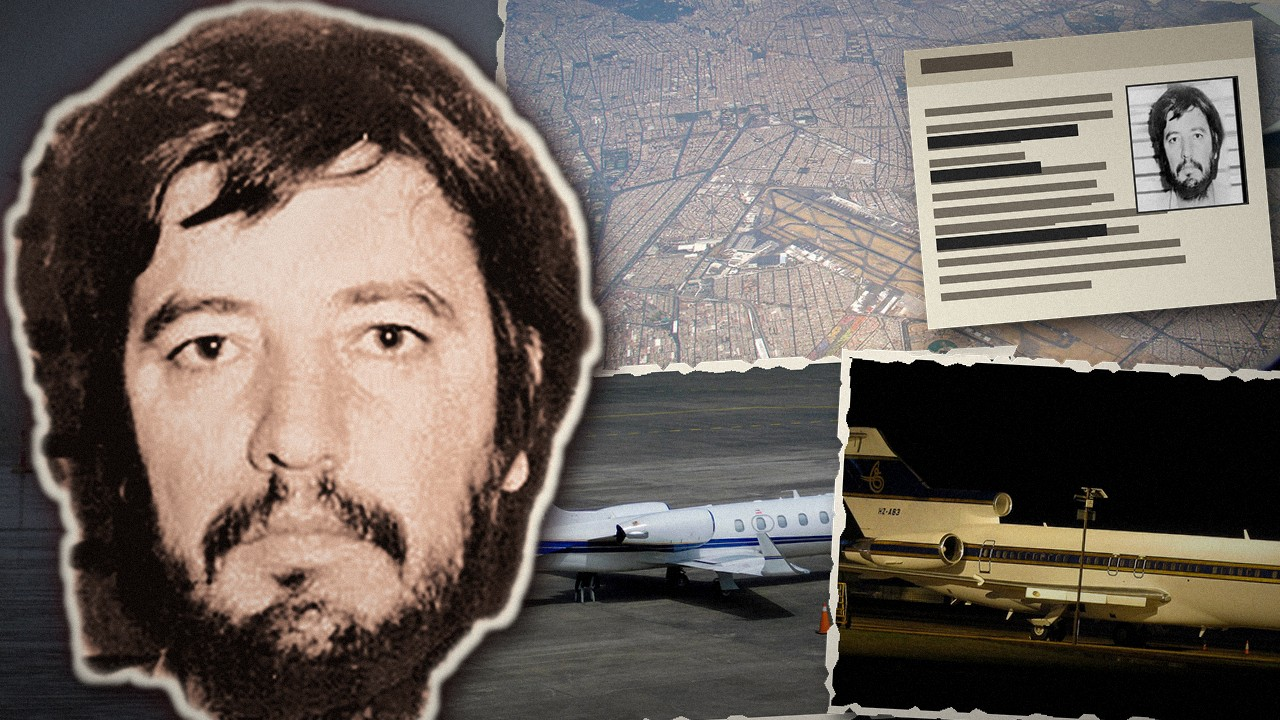
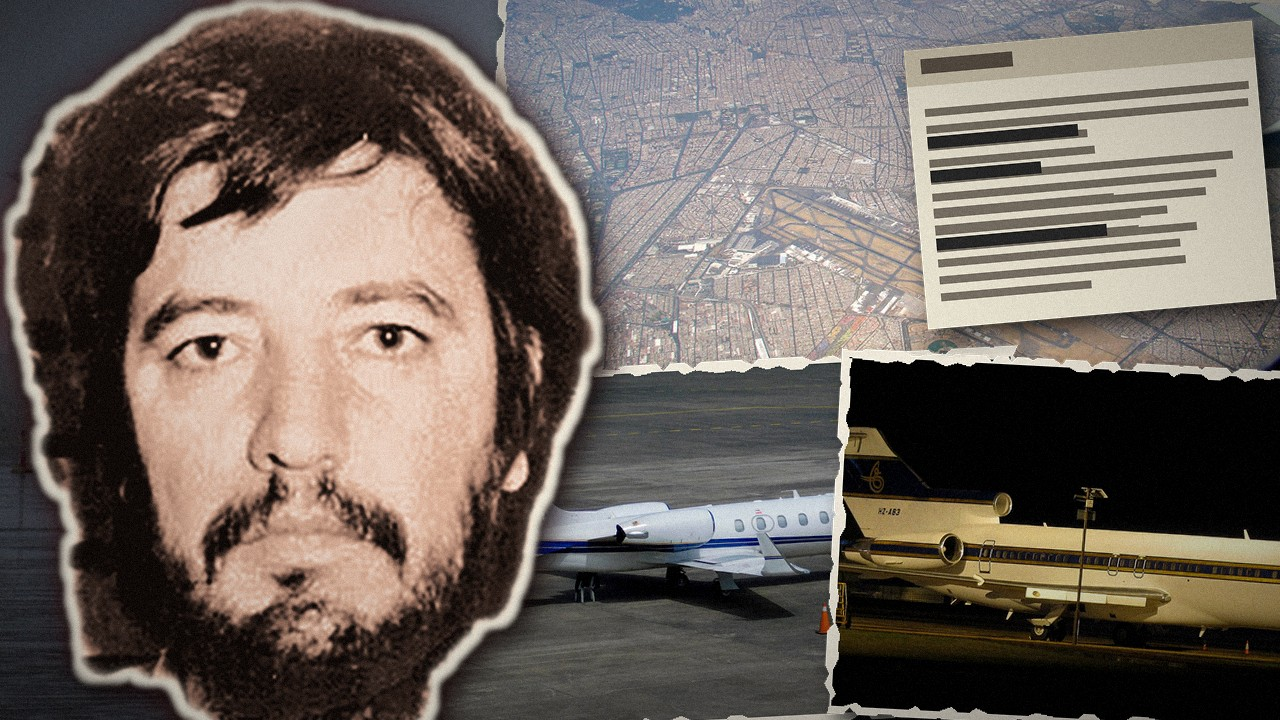
Miniaturas V6: expediente sin foto
Claude-Session: https://claude.ai/code/session_011QfsHNEVyrMTuqwhNXZ9Nu

Changed region(s): [[0.7812, 0.0917, 1.0, 0.3361]]

diff --git a/la_cosa_nuestra/miniaturas/miniatura_documental.py b/la_cosa_nuestra/miniaturas/miniatura_documental.py
@@ -31,13 +31,14 @@ def expediente(base, xy, tam, rot, mug, rojo=True):
     w, h = tam
     pg = Image.new("RGBA", (w, h), (232, 226, 208, 255)); d = ImageDraw.Draw(pg)
     d.rectangle((0, 0, w, 36), fill=(200, 190, 168, 255)); tira_texto(d, 16, 10, w * 0.5, (90, 80, 70, 255), 1, 1, 14)
-    tira_texto(d, 16, 60, w * 0.55, (120, 112, 100, 255), 2, 9)
+    tira_texto(d, 16, 60, w * (0.55 if mug is not None else 0.95), (120, 112, 100, 255), 2, 9)
     tira_texto(d, 16, h - 120, w - 40, (120, 112, 100, 255), 3, 6)
     if rojo:
         for yy, ww in ((88, 150), (122, 110), (190, 170)): d.rectangle((16, yy, 16 + ww, yy + 11), fill=(40, 40, 40, 255))
-    m = mug.resize((int(w * 0.32), int(w * 0.32 * 1.15)), Image.LANCZOS)
-    pg.paste(m, (w - m.width - 20, 54))
-    d.rectangle((w - m.width - 20, 54, w - 20, 54 + m.height), outline=(60, 60, 60, 255), width=2)
+    if mug is not None:
+        m = mug.resize((int(w * 0.32), int(w * 0.32 * 1.15)), Image.LANCZOS)
+        pg.paste(m, (w - m.width - 20, 54))
+        d.rectangle((w - m.width - 20, 54, w - 20, 54 + m.height), outline=(60, 60, 60, 255), width=2)
     sh = Image.new("RGBA", (w + 60, h + 60), (0, 0, 0, 0)); sh.paste(Image.new("RGBA", (w, h), (0, 0, 0, 200)), (30, 30)); sh = sh.filter(ImageFilter.GaussianBlur(12))
     can = Image.new("RGBA", (w + 60, h + 60), (0, 0, 0, 0)); can.alpha_composite(sh, (8, 10)); can.alpha_composite(pg, (30, 30))
     can = can.rotate(rot, resample=Image.BICUBIC, expand=True)
@@ -67,8 +68,7 @@ def fondo_collage(var="A"):
 
 def base(var="A"):
     im = fondo_collage(var)
-    mug = Image.open(A("mugshot_original.png")).convert("RGB").crop((0, 8, 267, 256)).convert("L").convert("RGB")
-    return expediente(im, (1090, 175), (350, 280), 5, mug)
+    return expediente(im, (1090, 175), (350, 280), 5, None)
 
 
 def con_cara(im):
